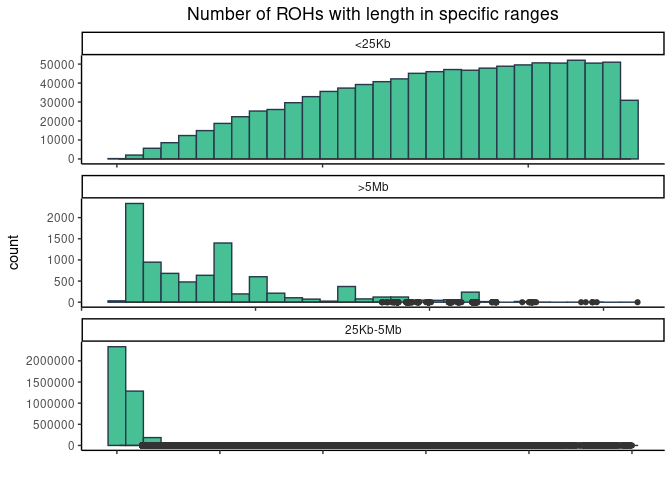
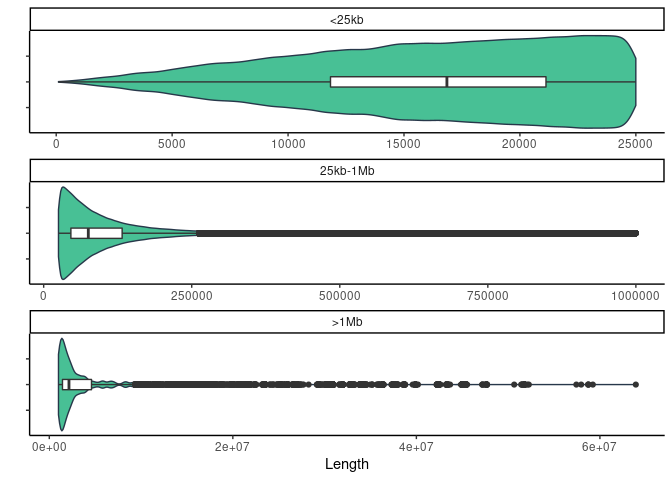
latest commit

Changed region(s): [[0.0, 0.0, 1.0, 1.0]]

diff --git a/roh/roh.md b/roh/roh.md
@@ -1,4 +1,4 @@
-Runs of homozygosity
+Runs of homozygosity on 1082 individuals
 ================
 
 | stat                |  min |  median |      mean |        max |
@@ -7,26 +7,33 @@ Runs of homozygosity
 | Number\_of\_markers |  2.0 |   100.0 |    166.01 |    45797.0 |
 | Quality             |  0.6 |    51.1 |     49.86 |       98.7 |
 
+ROHs quality histogram
+
+All ROHs with Quality &lt; 25% are removed
+
 ![](roh_files/figure-gfm/unnamed-chunk-3-1.png)<!-- -->
 
-<!-- ```{r roh, echo=FALSE} --> <!-- test1 <- roh$Length > 5e+06 -->
-<!-- test2 <- roh$Length < 25000 -->
+Number of ROHs with length in specific ranges
 
-<!-- roh <- roh %>% -->
-<!--     mutate(group = case_when(test1 ~ ">5Mb", -->
-<!--                              (test2) ~ "<25Kb" , -->
-<!--                              !test1 & !test2 ~ "25Kb-5Mb" -->
-<!--     )) -->
+![](roh_files/figure-gfm/roh-1.png)<!-- --> % of ROhs per category in
+sample (mam problem z nasza paleta kolorow wiec na razie daje domyslna)
 
-<!-- roh  %>% filter(Length > 25e+03  &  Quality > 90) %>% -->
-<!--   ggplot(aes(Length)) + -->
-<!--     geom_histogram(fill='48C095', col='27384A') + -->
-<!--      theme_classic() + -->
-<!--   ggtitle('Number of ROHs with length in specific ranges') + -->
-<!--   theme(plot.title = element_text(hjust = 0.5)) -->
+    ## `summarise()` has grouped output by 'group'. You can override using the `.groups` argument.
 
-<!-- ``` -->
+![](roh_files/figure-gfm/roh_count-1.png)<!-- -->
+
+Number of ROHs per sample
+
+    ## `summarise()` has grouped output by 'sample_id'. You can override using the `.groups` argument.
+
+![](roh_files/figure-gfm/roh_count_per_sample-1.png)<!-- -->
+
+Average ROHs per sample
+
+    ## `summarise()` has grouped output by 'sample_id'. You can override using the `.groups` argument.
+
+![](roh_files/figure-gfm/average_roh_per_sample-1.png)<!-- -->
+
+Cosanguinity in population
 
 ![](roh_files/figure-gfm/unnamed-chunk-4-1.png)<!-- -->
-
-![](roh_files/figure-gfm/unnamed-chunk-5-1.png)<!-- -->
